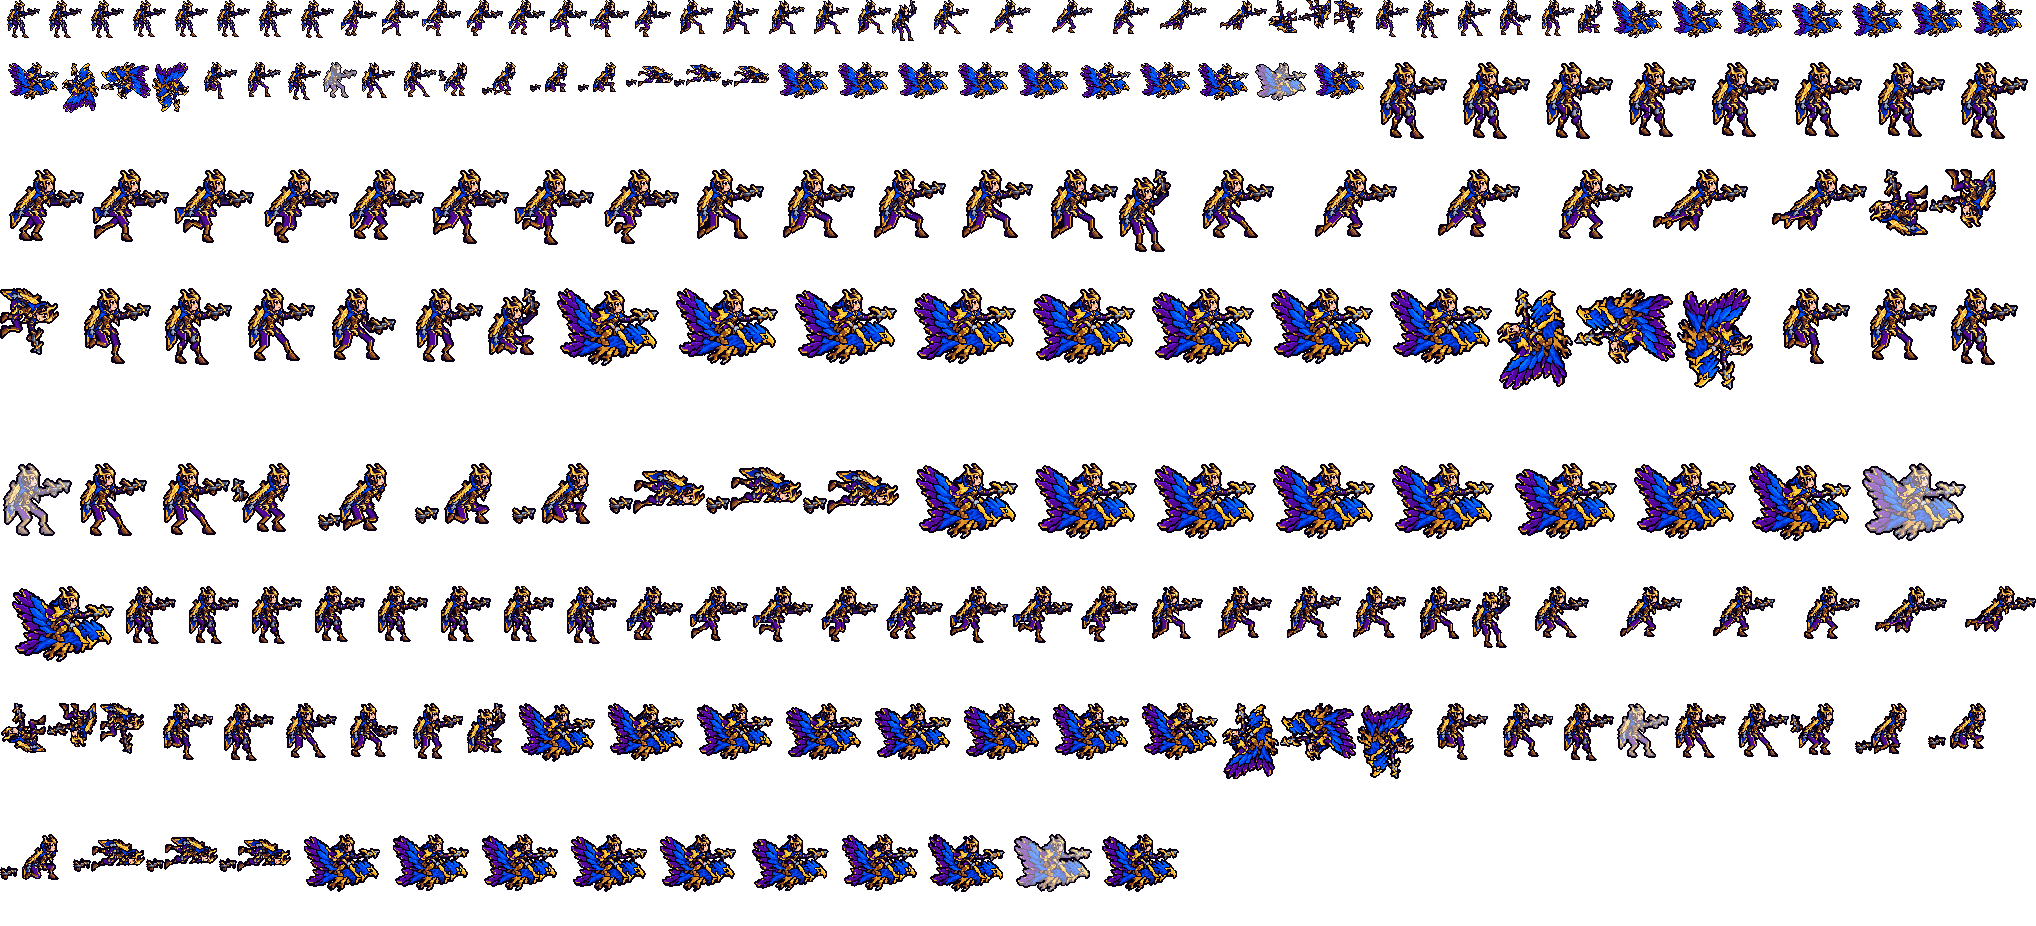
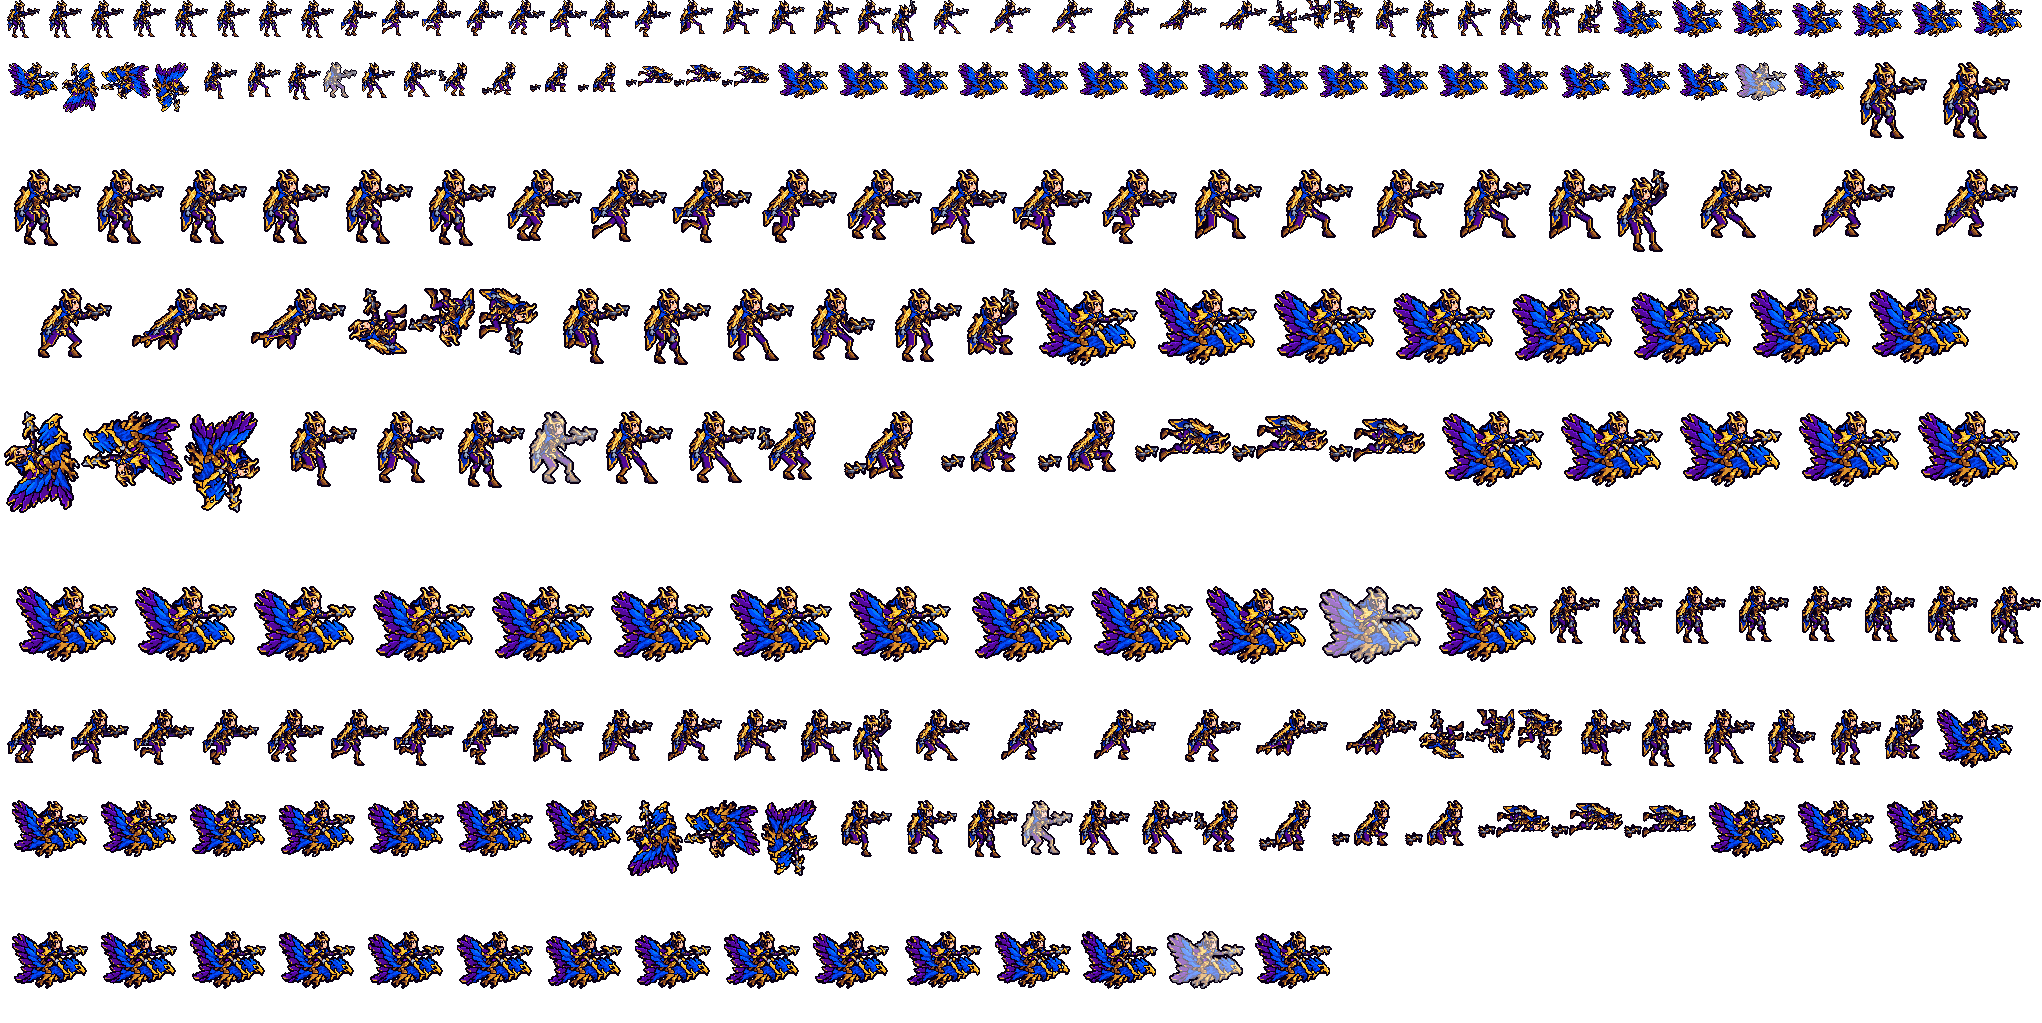
奎因骑着停下的待机：华洛隔一会儿扇一次翅膀，人和鹰不再上下动（新标签 r_beat：R 骑乘扇翅膀的办法，整组钉在待机那一帧的高度，只有翅膀按列扇、往上最多 3 格；r_idle 1 帧 -> 45 帧 9 个画面，每帧上下左右边都不变；卡片顺序照旧逐帧不变）

diff --git a/addons/league_viego_soul/src/souls.rs b/addons/league_viego_soul/src/souls.rs
@@ -147,7 +147,7 @@ pub const SOULS: &[(&str, &str, &[&str])] = &[
     ("league_poppy", "util", &["attack", "bp", "dead", "hd_attack", "hd_bp", "hd_dead", "hd_hit", "hd_idle", "hd_idle_base", "hd_run", "hd_skill", "hd_skill2", "hd_ult", "hd_ult_charge", "hd_ult_tap", "hit", "idle", "idle_base", "lo_attack", "lo_bp", "lo_dead", "lo_hit", "lo_idle", "lo_idle_base", "lo_run", "lo_skill", "lo_skill2", "lo_ult", "lo_ult_charge", "lo_ult_tap", "run", "skill", "skill2", "ult", "ult_charge", "ult_tap"]),
     ("league_pyke", "assassin", &["attack", "bp", "dead", "hd_attack", "hd_bp", "hd_dead", "hd_hit", "hd_idle", "hd_idle_base", "hd_run", "hd_skill", "hd_skill2", "hd_skill_stab", "hd_ult", "hit", "idle", "idle_base", "lo_attack", "lo_bp", "lo_dead", "lo_hit", "lo_idle", "lo_idle_base", "lo_run", "lo_skill", "lo_skill2", "lo_skill_stab", "lo_ult", "run", "skill", "skill2", "skill_stab", "ult"]),
     ("league_qiyana", "assassin", &["attack", "bp", "dead", "hd_attack", "hd_bp", "hd_dead", "hd_hit", "hd_idle", "hd_idle_base", "hd_run", "hd_skill", "hd_skill2", "hd_skill_g", "hd_skill_r", "hd_skill_w", "hd_ult", "hit", "idle", "idle_base", "lo_attack", "lo_bp", "lo_dead", "lo_hit", "lo_idle", "lo_idle_base", "lo_run", "lo_skill", "lo_skill2", "lo_skill_g", "lo_skill_r", "lo_skill_w", "lo_ult", "run", "skill", "skill2", "skill_g", "skill_r", "skill_w", "ult"]),
-    ("league_quinn", "range", &["attack", "bp", "dead", "e_flip", "hd_attack", "hd_bp", "hd_dead", "hd_e_flip", "hd_hit", "hd_idle", "hd_idle_base", "hd_r_hit", "hd_r_idle", "hd_r_idle_base", "hd_r_run", "hd_run", "hd_skill", "hd_skill2", "hd_ult", "hd_ult_land", "hd_ult_ride", "hit", "idle", "idle_base", "lo_attack", "lo_bp", "lo_dead", "lo_e_flip", "lo_hit", "lo_idle", "lo_idle_base", "lo_r_hit", "lo_r_idle", "lo_r_idle_base", "lo_r_run", "lo_run", "lo_skill", "lo_skill2", "lo_ult", "lo_ult_land", "lo_ult_ride", "r_hit", "r_idle", "r_idle_base", "r_run", "run", "skill", "skill2", "ult", "ult_land", "ult_ride"]),
+    ("league_quinn", "range", &["attack", "bp", "dead", "e_flip", "hd_attack", "hd_bp", "hd_dead", "hd_e_flip", "hd_hit", "hd_idle", "hd_idle_base", "hd_r_beat", "hd_r_hit", "hd_r_idle", "hd_r_idle_base", "hd_r_run", "hd_run", "hd_skill", "hd_skill2", "hd_ult", "hd_ult_land", "hd_ult_ride", "hit", "idle", "idle_base", "lo_attack", "lo_bp", "lo_dead", "lo_e_flip", "lo_hit", "lo_idle", "lo_idle_base", "lo_r_beat", "lo_r_hit", "lo_r_idle", "lo_r_idle_base", "lo_r_run", "lo_run", "lo_skill", "lo_skill2", "lo_ult", "lo_ult_land", "lo_ult_ride", "r_beat", "r_hit", "r_idle", "r_idle_base", "r_run", "run", "skill", "skill2", "ult", "ult_land", "ult_ride"]),
     ("league_rakan", "util", &["attack", "bp", "dead", "e_dash", "e_land", "hd_attack", "hd_bp", "hd_dead", "hd_e_dash", "hd_e_land", "hd_hit", "hd_idle", "hd_idle_base", "hd_run", "hd_skill", "hd_skill2", "hd_ult", "hd_w_spin", "hit", "idle", "idle_base", "lo_attack", "lo_bp", "lo_dead", "lo_e_dash", "lo_e_land", "lo_hit", "lo_idle", "lo_idle_base", "lo_run", "lo_skill", "lo_skill2", "lo_ult", "lo_w_spin", "run", "skill", "skill2", "ult", "w_spin"]),
     ("league_rammus", "melee", &["attack", "b_hit", "b_idle", "b_idle_base", "b_run", "bp", "c_hit", "c_idle", "c_idle_base", "c_run", "dead", "hd_attack", "hd_b_hit", "hd_b_idle", "hd_b_idle_base", "hd_b_run", "hd_bp", "hd_c_hit", "hd_c_idle", "hd_c_idle_base", "hd_c_run", "hd_dead", "hd_hit", "hd_idle", "hd_idle_base", "hd_run", "hd_skill", "hd_skill2", "hd_skill_hit", "hd_skill_roll", "hd_skill_w", "hd_ult", "hd_ult_land", "hit", "idle", "idle_base", "lo_attack", "lo_b_hit", "lo_b_idle", "lo_b_idle_base", "lo_b_run", "lo_bp", "lo_c_hit", "lo_c_idle", "lo_c_idle_base", "lo_c_run", "lo_dead", "lo_hit", "lo_idle", "lo_idle_base", "lo_run", "lo_skill", "lo_skill2", "lo_skill_hit", "lo_skill_roll", "lo_skill_w", "lo_ult", "lo_ult_land", "run", "skill", "skill2", "skill_hit", "skill_roll", "skill_w", "ult", "ult_land"]),
     ("league_reksai", "melee", &["attack", "b_hit", "b_idle", "b_idle_base", "b_run", "bite", "bp", "dead", "hd_attack", "hd_b_hit", "hd_b_idle", "hd_b_idle_base", "hd_b_run", "hd_bite", "hd_bp", "hd_dead", "hd_hit", "hd_idle", "hd_idle_base", "hd_run", "hd_skill", "hd_skill2", "hd_skill2_up", "hd_skill_q2", "hd_t_dig", "hd_t_dig_l", "hd_t_up", "hd_t_up_l", "hd_ult", "hd_ult_hit", "hit", "idle", "idle_base", "lo_attack", "lo_b_hit", "lo_b_idle", "lo_b_idle_base", "lo_b_run", "lo_bite", "lo_bp", "lo_dead", "lo_hit", "lo_idle", "lo_idle_base", "lo_run", "lo_skill", "lo_skill2", "lo_skill2_up", "lo_skill_q2", "lo_t_dig", "lo_t_dig_l", "lo_t_up", "lo_t_up_l", "lo_ult", "lo_ult_hit", "run", "skill", "skill2", "skill2_up", "skill_q2", "t_dig", "t_dig_l", "t_up", "t_up_l", "ult", "ult_hit"]),

diff --git a/tools/art/rig_quinn.py b/tools/art/rig_quinn.py
@@ -18,7 +18,8 @@ the pauldron, the cape, the torso).
 The in-betweens (tools/art/inbetween.py; the user, 2026-11-14: 「还有有的动画感觉只有一帧 不如oppi的地方都要补 参考联盟的动画」):
 the ride (one picture moved up and down) with Valor's wing spread behind her beaten by its columns (RIDE_PARTS: the
 feathers' tips lifted or lowered, nothing where the wing goes on under her leg); every other square of the ride checked
-unchanged.
+unchanged. r_beat: that beat with the group held at r_idle's first frame's height, for the add-on's ride idle (its reel,
+tools/art/hero_reels.json): only the wing moves, never higher than her crest (R_BEAT_UP), so the idle does not bob.
 """
 import argparse
 import json
@@ -420,11 +421,17 @@ MS = {"idle": [150] * 8, "run": [117] * 8, "attack": [80, 70, 90, 110, 90],
       "skill": [90, 80, 100, 90, 110], "skill2": [60, 60], "e_flip": [50, 50, 50, 60, 90],
       "ult": [80, 100, 120, 200], "ult_ride": [50] * 8, "ult_land": [70, 70, 70, 70, 100, 100],
       "hit": [100, 100], "dead": [100, 110, 120, 150, 60, 60, 100, 500],
-      "r_idle": [160] * 4, "r_run": [90] * 4, "r_hit": [100, 100]}
+      "r_idle": [160] * 4, "r_run": [90] * 4, "r_hit": [100, 100], "r_beat": [120] * 8}
 # Valor's wing tips in the ride's loops, rows up a frame (the downstroke while the group rises): ult_ride rises 6 to 9
 # and sinks to 7, r_run rises 6 9 and sinks 8 5 (2026-11-14: both were one picture moved up and down; ult_ride's four
 # 100-ms frames are eight of 50 now, r_run keeps its four)
-WING_K = {"ult_ride": (5, 4, 0, -4, -5, -3, 1, 2), "r_run": (0, -5, 1, 5)}
+WING_K = {"ult_ride": (5, 4, 0, -4, -5, -3, 1, 2), "r_run": (0, -5, 1, 5),
+          # r_beat (2026-11-14): one beat from the ride's rest and back with the group held where r_idle holds it (6
+          # rows up) - only the wing moves, the idles do not bob (the user: 「上下摆动全不要了啊」); up no more than
+          # R_BEAT_UP rows, as from 4 the tips rise over her helmet's crest and the picture's top would move
+          "r_beat": (1, 3, 2, -1, -3, -5, -4, -2)}
+R_BEAT_UP = 3                   # r_beat's wing tips up at most this many rows (the picture's top stays her crest)
+R_HOLD = 6                      # rows the ride is held up in r_idle's first frame (the add-on's idle reel holds it)
 
 
 def frames_all(F):
@@ -488,7 +495,12 @@ def frames_all(F):
                    on_floor(dr(D[2], drop=True, lean=2)), on_floor(dr(D[3], drop=True, lean=2)),
                    on_floor(dr(D[4], drop=True, lean=2)), on_floor(lying(0)), on_floor(lying(-3)), on_floor(lying(0))]
     # the add-on's ride form (addons/league_quinn): standing / moving / hit as the group gliding
-    out["r_idle"] = [F.whole("ride", dy=-d) for d in (6, 8, 8, 6)]
+    out["r_idle"] = [F.whole("ride", dy=-d) for d in (R_HOLD, 8, 8, R_HOLD)]
+    # the wing beat r_idle's reel plays now and then (tools/art/hero_reels.json; it was the first frame held alone, and a
+    # beat taken from ult_ride lifted the whole group 3 rows): ult_ride's beat at r_idle's height, the group never moved
+    if max(WING_K["r_beat"]) > R_BEAT_UP:
+        sys.exit(f"r_beat: the wing up more than {R_BEAT_UP} rows lifts the picture's top")
+    out["r_beat"] = [F.beat(k, dy=-R_HOLD) for k in WING_K["r_beat"]]
     out["r_run"] = [F.beat(k, dy=-d, dx=x) if k else F.whole("ride", dy=-d, dx=x)
                     for (d, x), k in zip(((6, 0), (9, 2), (8, 0), (5, -2)), WING_K["r_run"])]
     out["r_hit"] = [F.whole("ride", dx=-3, dy=-6, flash=True), F.whole("ride", dx=-2, dy=-6)]

diff --git a/docs/heroes/league_quinn.md b/docs/heroes/league_quinn.md
@@ -96,6 +96,7 @@
 | 音效 | 英雄联盟的音效和配音（[`tools/lol/extract_quinn.py`](../../tools/lol/extract_quinn.py)，16 段）：普攻出手 / 打中，侵扰华洛俯冲 / 打中，Q 出手 / 爆开 / 打中，E 冲刺 / 打中 / 空翻，R 召唤 / 骑行 / 鹰翼天翔；Q、E、R 的配音（片段名 `league_quinn_sfx_*`，和声音名不同） |
 | 图标 | 官方技能图标（炫目攻势、旋翔掠杀、深入敌后，另有敏锐感知和被动），从本地客户端取 |
 | 动作补帧（2026-11-14） | 用户：「还有有的动画感觉只有一帧 不如oppi的地方都要补 参考联盟的动画」，后来又说「动画你觉得少的地方就想办法补」「能改就想办法改 全都要改」。对照表里她的 E 旋翔掠杀只有 2 帧 0.12 秒（每张 60 毫秒，第 3 张会短于 50 毫秒，技能数据按它的总长放，没动；冲刺完接的后空翻有 5 帧）；真正「只有一帧」的是骑华洛：R 的骑乘 ult_ride 和附加包骑着走的 r_run 都是同一张骑乘图整张上下挪。没有新画，也没交给 Codex：[`tools/art/inbetween.py`](../../tools/art/inbetween.py) 把骑乘图里华洛展在她身后的翅膀（30 列以左的紫蓝羽毛，那里没有她；往右翅膀伸进她腿下面的那段不动）按列整格扇动，羽尖上下各 5 格，骑乘图别的格子逐格核对不变（[`tools/art/rig_quinn.py`](../../tools/art/rig_quinn.py) 的 Form.beat、RIDE_PARTS、WING_K）。下面写的是「几帧，其中几个不同的姿势」。**R 骑乘（ult_ride）** 4 帧（1 个）→ 8 帧，其中 8 个：整组还是每 100 毫秒升到 6、8、9、8 格（中间那帧取一半），翅膀在往上升时往下扇、再扬回来（5、4、0、-4、-5、-3、1、2 格），每帧 50 毫秒，一圈还是 400 毫秒。**骑着走（r_run，附加包）** 4 帧（1 个）→ 4 帧，其中 4 个：位置和每帧 90 毫秒照旧，翅膀 0、-5、+1、+5 格。E、R 召唤、Q、普攻、跑、阵亡、受击、待机和骑乘的待机 / 受击（36 个标签连同 hd_、lo_）逐帧没变；技能数据没改。每帧 3 倍、翅膀 5 倍看过。tools/art/hero_reels.json 不用改（待机剪的片段、选人卡片 Q、E、R、普攻都没变）。骑着停在原地的 r_idle 按 hero_reels 的规则是第一帧停 1.5 秒（"r_idle": []），没改，以后要的话可以给它剪一段扇翅膀的 ult_ride。补交 assets/source/ppu/orig/quinn_face.json（ppu_restyle 每次都写，原来没提交）。图集 2046×922 → 2036×926，选人格子用的那张 1.10 MiB 不变。游戏里没看过；docs/preview 里她的逐帧预览和演示动图还是旧的。 |
+| 动作补帧（2026-11-14，骑着停下的待机） | 用户：「有的动画感觉只有一帧 不如oppi的地方都要补」「动画你觉得少的地方就想办法补」，待机要求：「上下摆动全不要了啊」。附加包里她骑着华洛停下时放的待机（`r_idle`）原来只有骑乘图那一张，放 1.5 秒（`hero_reels.json` 里写的是 `"r_idle": []`）。先前一版把 R 骑乘那套扇翅膀的帧直接剪进来，但那几帧里人和鹰整组会升高 3 格，等于待机又在上下摆，已经撤回。这次新加一个标签 `r_beat`：华洛的翅膀还是照 R 骑乘的办法按列整格扇（[`tools/art/rig_quinn.py`](../../tools/art/rig_quinn.py) 的 `Form.beat`、`WING_K["r_beat"]`），人和鹰钉在待机那一帧的高度（升 6 格，`R_HOLD`），一格都不动，只有翅膀在动。翅膀往上最多抬 3 格：抬到 4 格时羽尖会高过她头盔的冠，整张图的顶就变了（`R_BEAT_UP`，生成时核对）。一次扇翅是这样的：从停着的样子先抬起 1 格、3 格，往下扇到 2、−1、−3、−5 格，再收回到 −4、−2 格，然后回到停着的样子。每帧 120 毫秒，这是 `hero_reels` 给待机剪辑的最短时长。待机里隔 0.8–3.2 秒扇一次：`r_idle` 1 帧（1 个画面，1500 毫秒）→ 45 帧，其中 9 个不同的画面（13380 毫秒）。每一帧的上、下、左、右边都和停着的那一帧一样（anim_bob：顶 −58、底 17、左 −43、右 58，格子 118×116），没有上下摆。翅膀以外的格子逐格不变（`inbetween.vary` 核对），也不缩放。给 `r_idle` 加了剪辑以后，卡片从哪个动作开始会跟着变，所以写上 `"bp": ["skill", "skill2", "ult", "attack"]`，保持原来的顺序，卡片逐帧不变。别的 45 个标签（连同 hd_、lo_）逐帧像素、时长都没变，主待机也逐帧不变。佛耶戈附加包的魂表跟着加了 `r_beat` 的三个标签。每帧 3 倍看过，翅膀 5 倍看过。游戏里还没看过 |
 
 重新生成（素材来自本机的英雄联盟客户端，音频不进仓库）：
 
